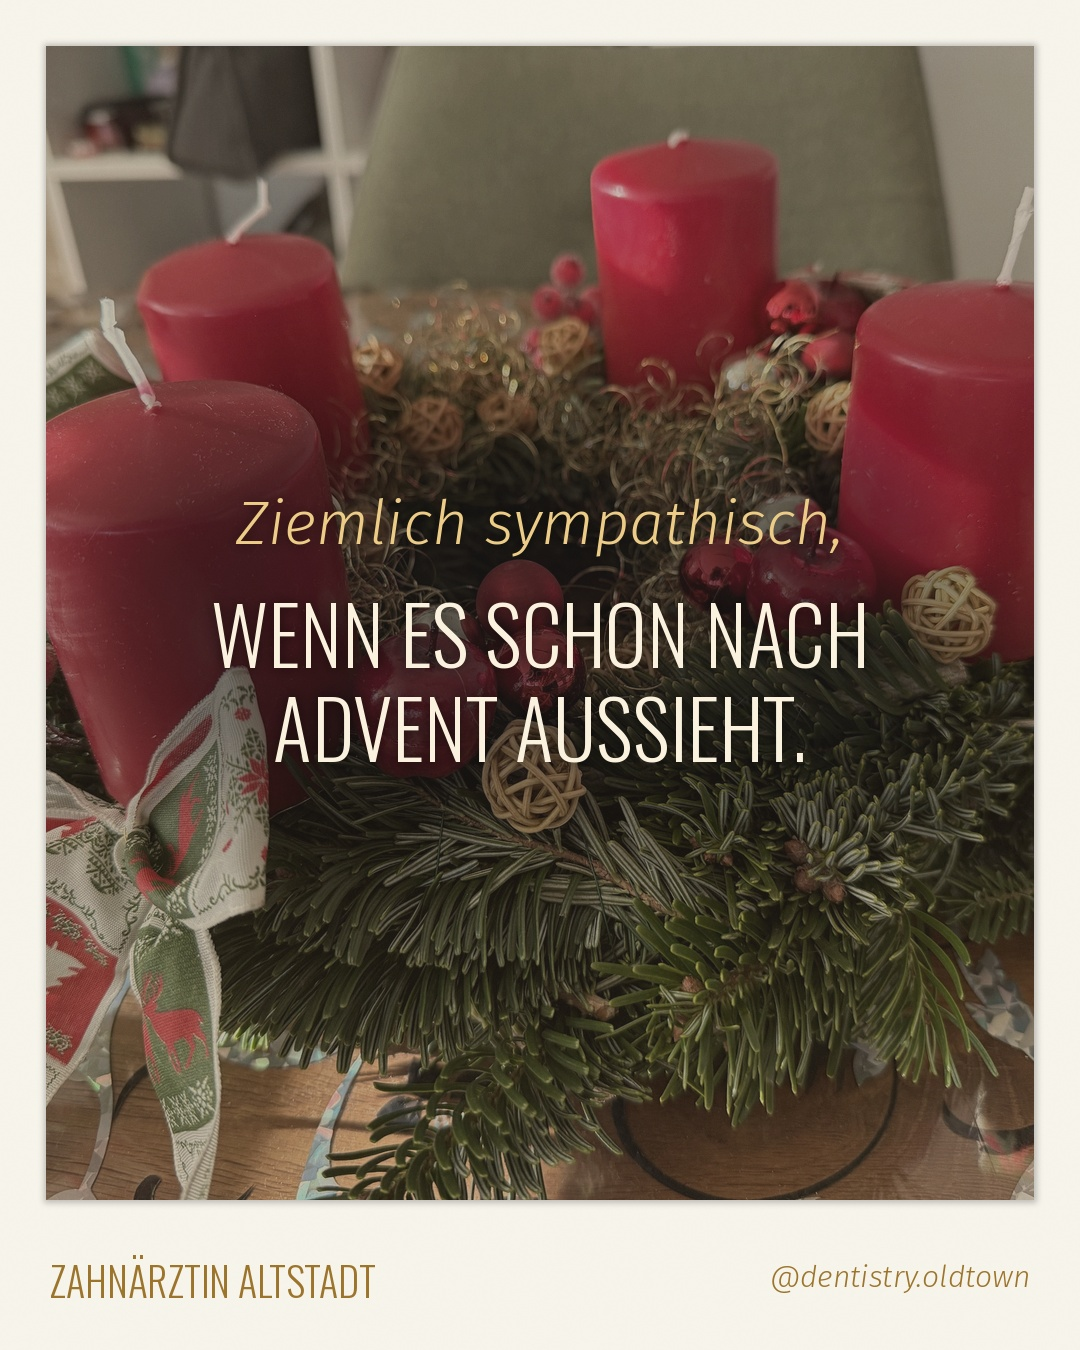
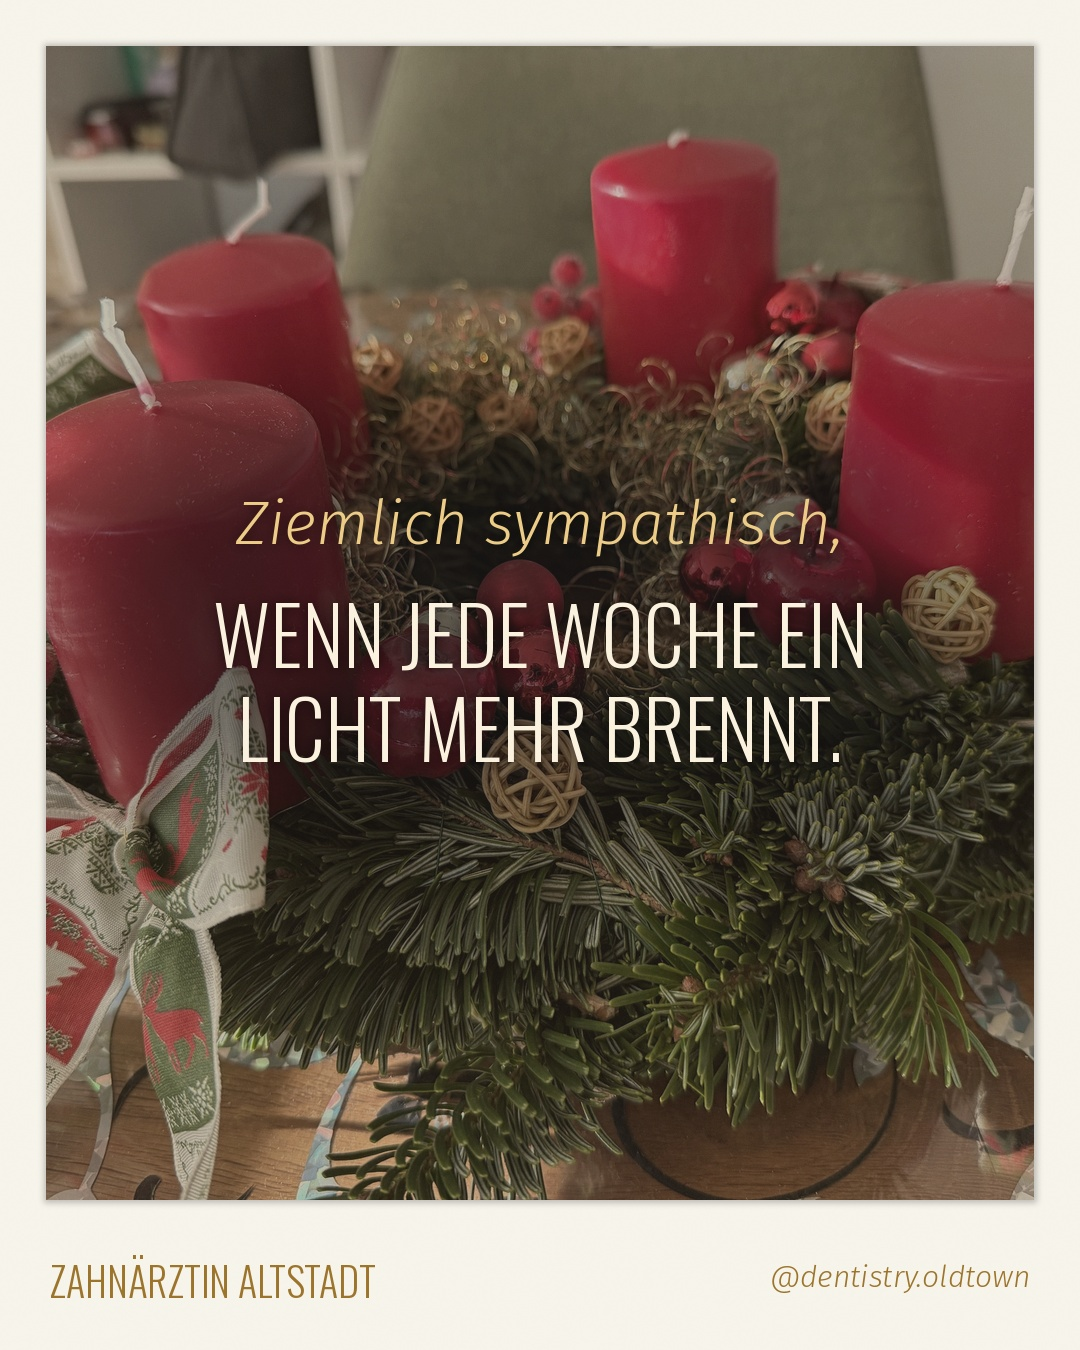
Sympathisch Advent: bessere Sätze zu Kranz und Fenster
Claude-Session: https://claude.ai/code/session_012SPZoo3349FxBHtRPxeMWn

Changed region(s): [[0.1833, 0.4356, 0.7944, 0.5911]]

diff --git a/AGENT.md b/AGENT.md
@@ -74,7 +74,7 @@ Idea from Neda (inspired by an orthodontist's "kinda chic to …" carousel – a
 - Any carousel scene accepts `"frame": true` (same paper frame); in the series the closing `close` slide is always framed.
 - Scene type `photo` exists: `{"type":"photo","photo":"photos/praxis/<file>.jpg","text":"wenn …","focus":[x,y],"shade":120}` (framed analog print, text on photo; "Ziemlich sympathisch," added automatically; optional "dy", "shade", "size"). Last slide: `close`. Neda's approved look: `drafts/_demo_sympathisch/` (5 photos + close).
 - Episode 1 (Fri 30.10.2026, posts/2026-10-30_serie_ziemlich-sympathisch) is done and scheduled and used all five current photos (wartezimmer, globus, voegel, blumen_1, blumen_2). Episode 2 (Fri 27.11.2026 10:00) is an ADVENT edition: Neda puts 5 Advent photos from the practice into her Google Drive folder "Insta Praxisfotos" (search Drive by that folder title, download with download_file_content, store as photos/praxis/advent_*.jpg); write calm Advent-flavoured "wenn …" lines (no promotions, no gifts/vouchers).
-  Neda-approved plan for episode 2: SAME framed analog look as episode 1, but with `"frame_ink": "gold"` in the spec (gold brand text on the frame + gold "Ziemlich sympathisch," on the photo) – sample: `drafts/sympathisch_gold/`. Photo ideas she got: fairy lights/Advent wreath at reception, fir sprig or star on the counter, a cup of tea in the waiting room, window with old-town view at dusk, candle/light bokeh. Line ideas (adapt to the actual photos): "wenn es in der Praxis schon nach Advent aussieht." · "wenn man in der hektischen Zeit kurz durchatmen darf." · "wenn jemand fragt: Und wie geht's Ihnen eigentlich?" · "wenn man auch im Dezember nicht hetzen muss." · "wenn sich ein Termin wie eine kleine Pause anfühlt." Neda already sent 3 Advent photos (photos/praxis/advent_kranz.jpg, advent_fenster.jpg, advent_kekse.jpg) – test carousel she saw: drafts/sympathisch_advent_probe/ (line for the cookies: "wenn auch die Zahnärztin Kekse bäckt."). Use these plus any new ones from Drive; 3 photos are enough if no more arrive. Closing slide (framed, gold): "Eine ruhige Adventszeit!" + "Ihr Team der Zahnärztin Altstadt." + practice card. From then on ask Neda (in the approval email) for new photos so the series does not look repetitive.
+  Neda-approved plan for episode 2: SAME framed analog look as episode 1, but with `"frame_ink": "gold"` in the spec (gold brand text on the frame + gold "Ziemlich sympathisch," on the photo) – sample: `drafts/sympathisch_gold/`. Photo ideas she got: fairy lights/Advent wreath at reception, fir sprig or star on the counter, a cup of tea in the waiting room, window with old-town view at dusk, candle/light bokeh. Line ideas (adapt to the actual photos): "wenn es in der Praxis schon nach Advent aussieht." · "wenn man in der hektischen Zeit kurz durchatmen darf." · "wenn jemand fragt: Und wie geht's Ihnen eigentlich?" · "wenn man auch im Dezember nicht hetzen muss." · "wenn sich ein Termin wie eine kleine Pause anfühlt." Neda already sent 3 Advent photos (photos/praxis/advent_kranz.jpg, advent_fenster.jpg, advent_kekse.jpg) – test carousel she saw: drafts/sympathisch_advent_probe/ (lines Neda saw: wreath "wenn jede Woche ein Licht mehr brennt." · window "wenn draußen die Altstadt leuchtet und drinnen jemand Zeit für Sie hat." · cookies "wenn auch die Zahnärztin Kekse bäckt." – lines must match what the photo shows and make sense on their own). Use these plus any new ones from Drive; 3 photos are enough if no more arrive. Closing slide (framed, gold): "Eine ruhige Adventszeit!" + "Ihr Team der Zahnärztin Altstadt." + practice card. From then on ask Neda (in the approval email) for new photos so the series does not look repetitive.
 
 ## Adventskalender 2026 (Neda-approved 20.10.2026) – 24 Türchen, 1.–24.12., daily 18:00
 - Spec: `"theme": "advent"` and `"door": <n>` (dark green Advent look, gold door badge). Approved sample: `drafts/advent_muster/` (Türchen 1). Alternate formats: odd doors = REEL (12–17 s, attention rules apply), even doors = carousel (5–6 slides). Close slide body: "Morgen öffnen wir Türchen Nummer <n+1>." (door 24 different, see below).
